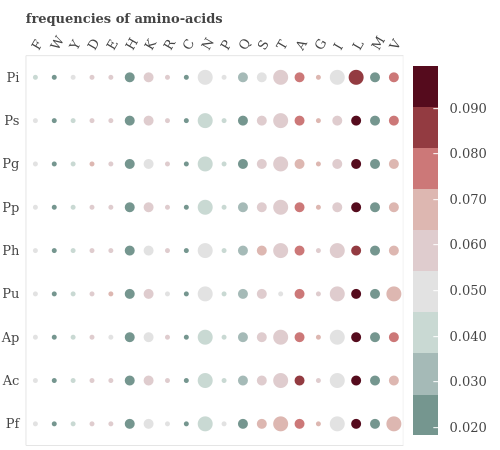
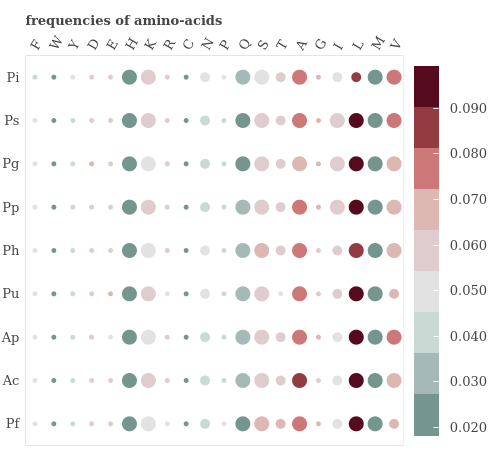
added travis.yml, and small correction on heatmaps script

diff --git a/visualisation/scripts/Heatmaps/heatmap_bokeh.py b/visualisation/scripts/Heatmaps/heatmap_bokeh.py
@@ -100,7 +100,7 @@ def makeHeatmap(df, what, on_what, colors, range_x, range_y, width, height):
 def main():
     parser = argparse.ArgumentParser()
     parser.add_argument("file", help="Input csv file")
-    parser.add_argument("represent", choices=("counts", "frequencies", "all"), help="choose what to plot")
+    parser.add_argument("represent", choices=("counts", "frequencies", "both"), help="choose what to plot")
     parser.add_argument("tree", help="RAxML tree for lines order")
     args = parser.parse_args()
 
@@ -140,9 +140,9 @@ def main():
             if l[j] < 0.025:
                 l[j] = 5
             elif l[j] > 0.975:
-                l[j] = 10
-            else:
                 l[j] = 15
+            else:
+                l[j] = 10
 
     # correct names and stacking
     name_index = {elem:str.split(elem, "_")[0] for elem in y}
@@ -174,7 +174,7 @@ def main():
     elif args.represent == "frequencies":
         print "Building heatmaps of {} frequencies ...".format(on_what)
         makeHeatmap(df, args.represent, on_what, colors, x_range[on_what], y_range, width, height)
-    elif args.represent == "all":
+    elif args.represent == "both":
         print "Building heatmaps of {} counts ..."  .format(on_what)     
         makeHeatmap(df, "counts", on_what, colors, x_range[on_what], y_range, width, height)
         print "Building heatmaps of {} frequencies ...".format(on_what)

diff --git a/visualisation/scripts/Barplots/barplots_bokeh.py b/visualisation/scripts/Barplots/barplots_bokeh.py
@@ -45,9 +45,9 @@ def make_barplot(species, xaxis, dic_yaxis, dic_yaxis_pvalues, what, x_range, wi
 
     # Transform pvalues in categorical data for color range
     for i in range(0,len(dic_yaxis_pvalues[species])):
-        if dic_yaxis_pvalues[species][i] < 0.05:
+        if dic_yaxis_pvalues[species][i] < 0.025:
             pvalues_factor[i] = 'lower'
-        elif dic_yaxis_pvalues[species][i] > 0.95:
+        elif dic_yaxis_pvalues[species][i] > 0.975:
             pvalues_factor[i] = 'higher'
         else :
             pvalues_factor[i] = 'unsignificant'
